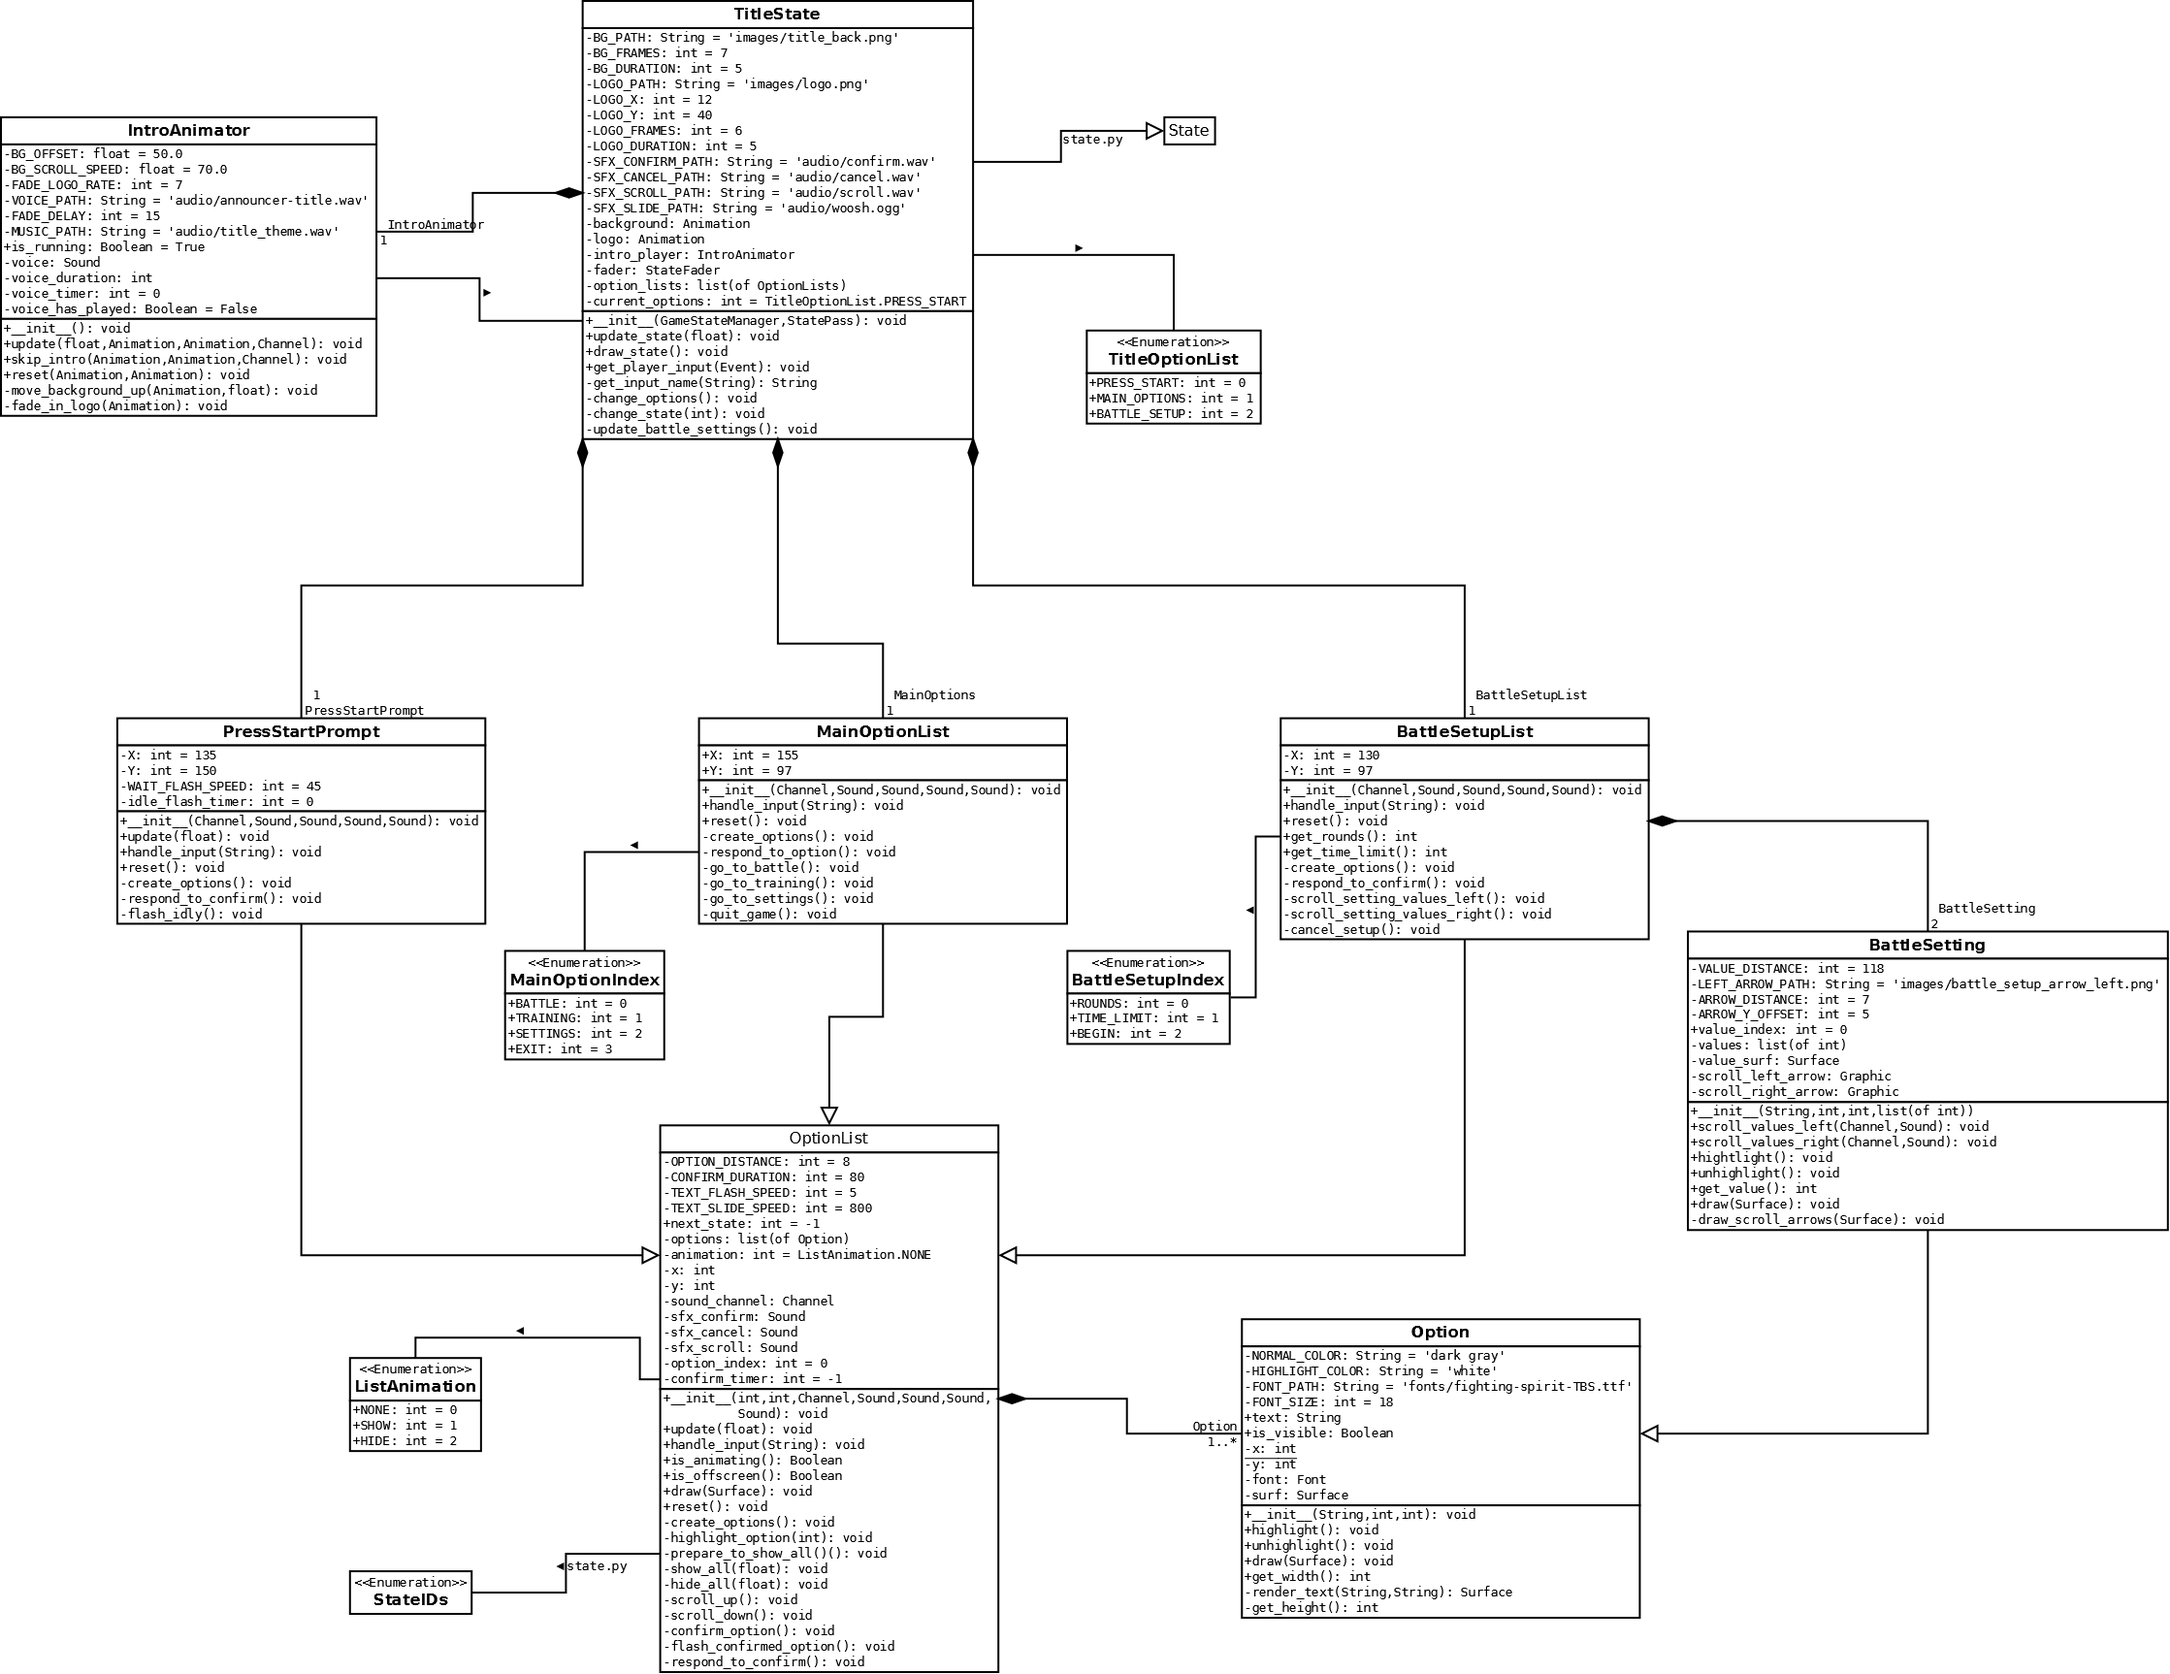
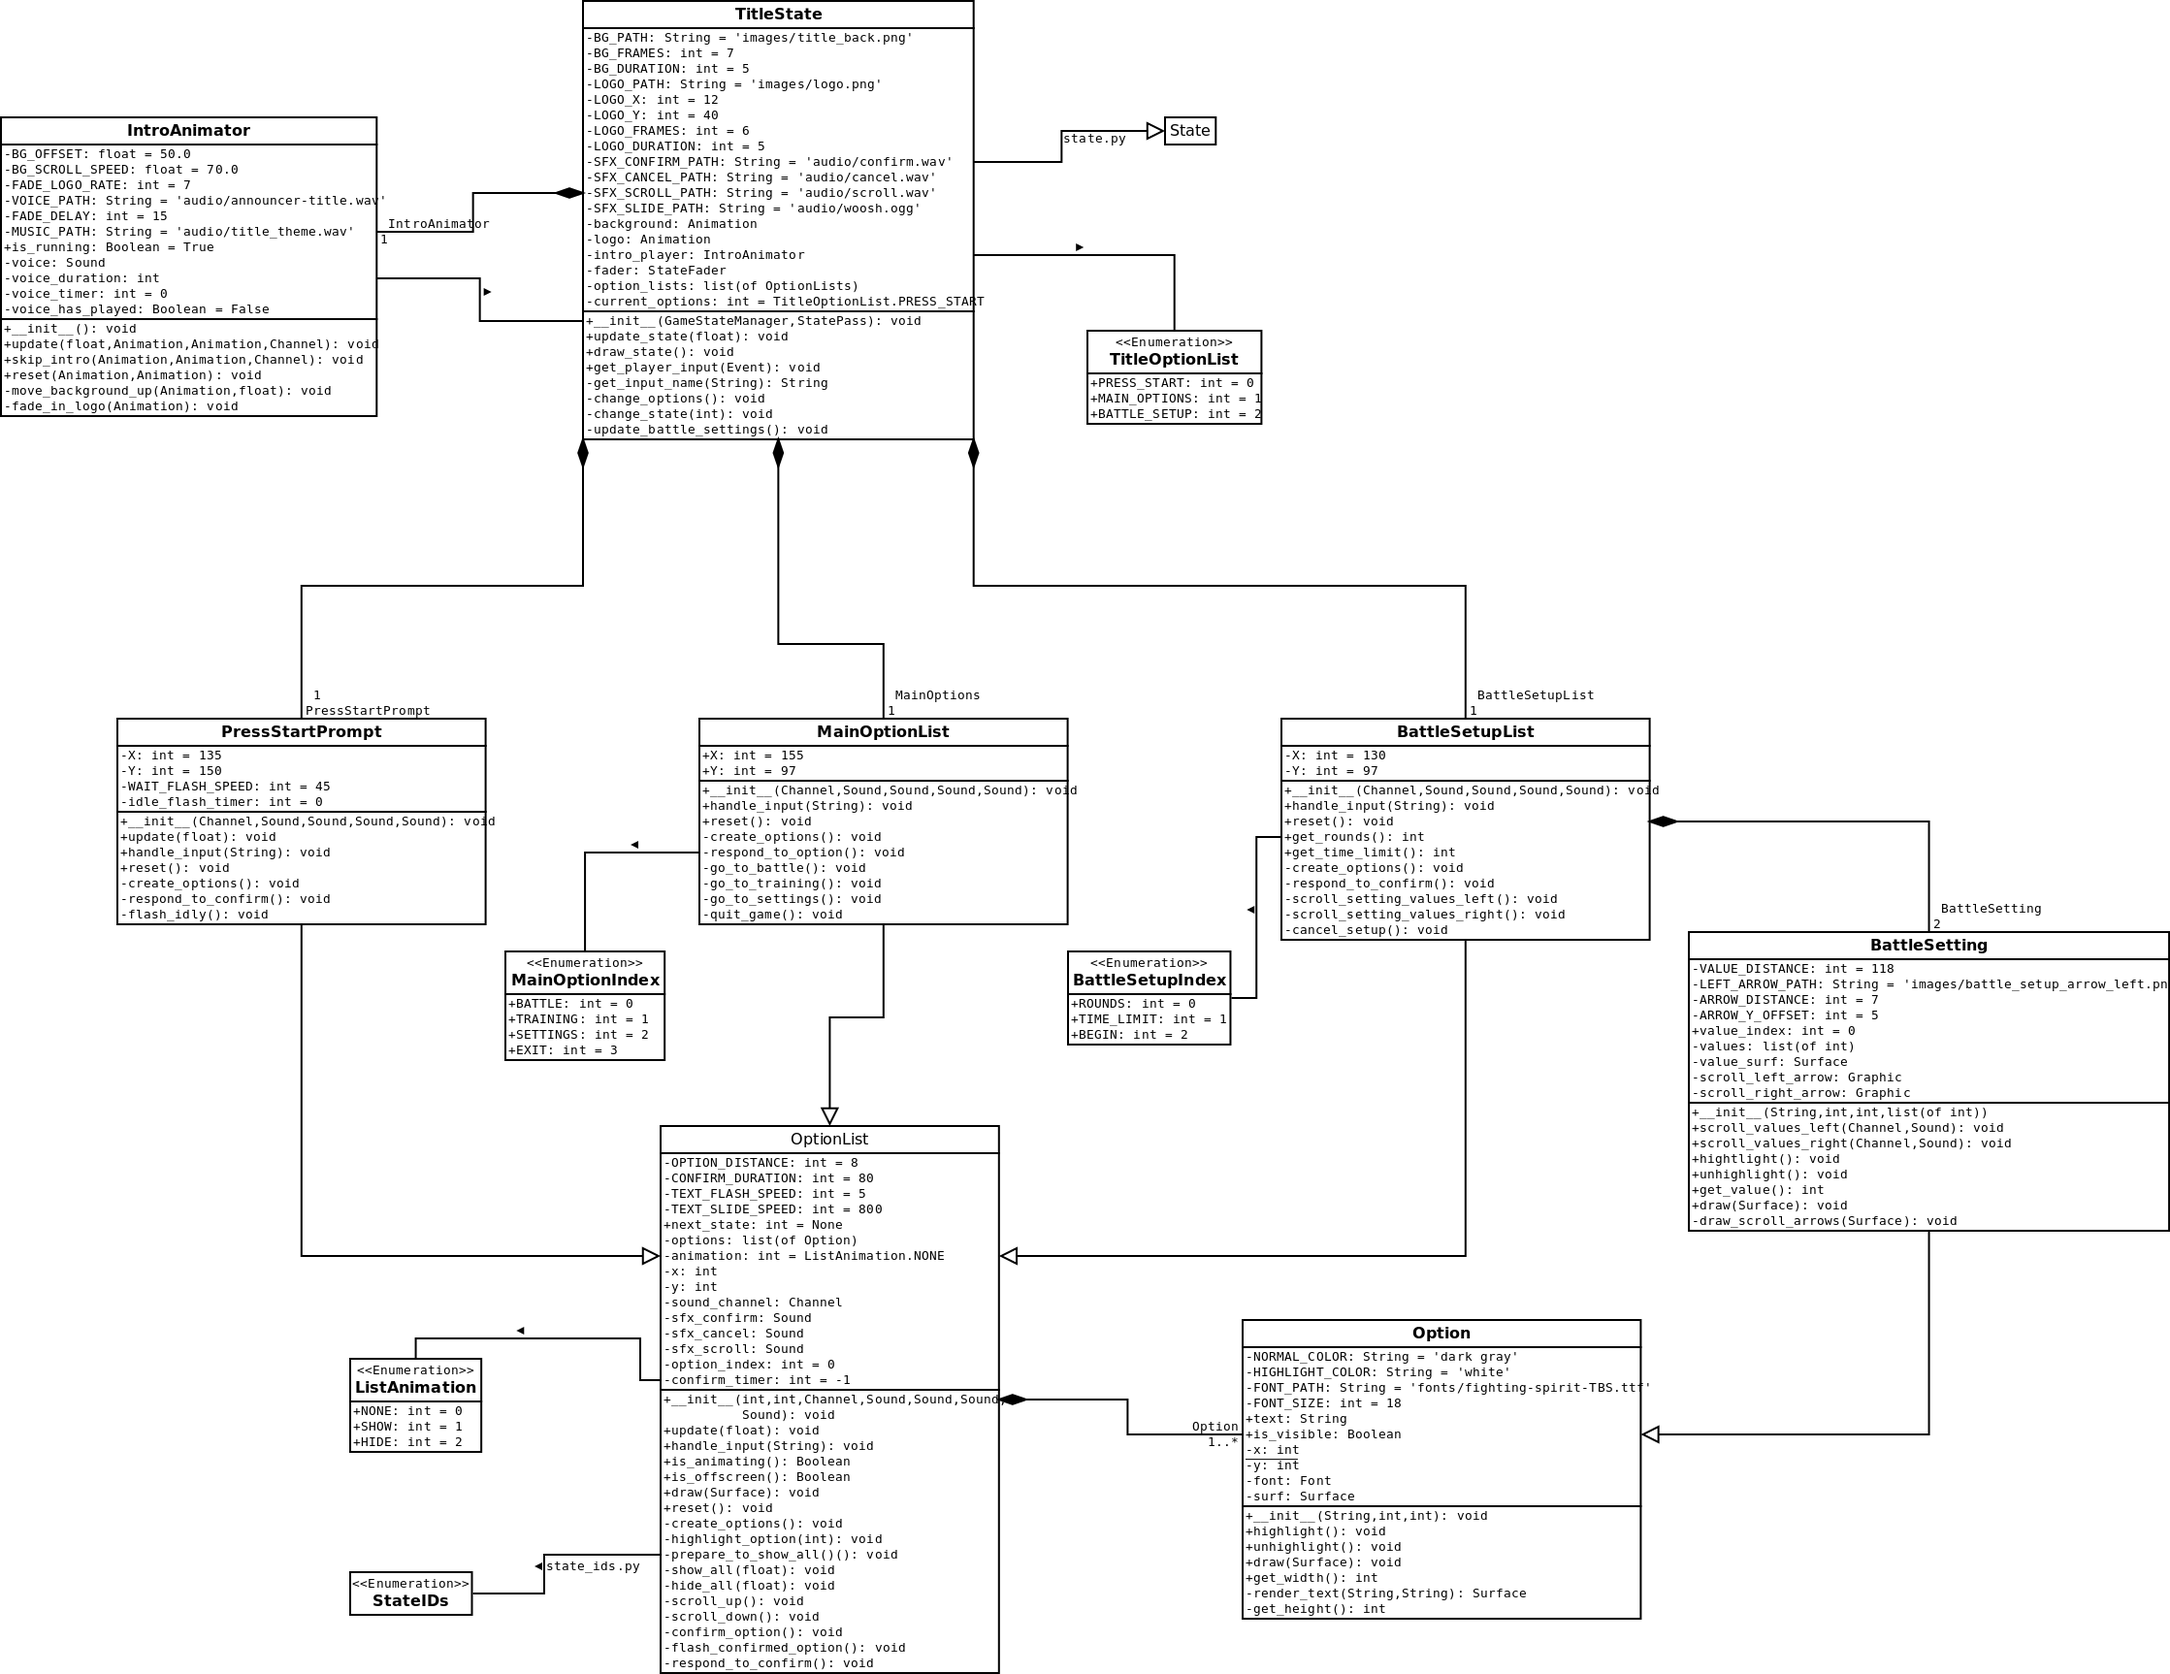
TitleState: Use None as empty value in next_state
Keeping in line with patterns from the other modules.

diff --git a/lib/game_states/title_state.py b/lib/game_states/title_state.py
@@ -132,9 +132,9 @@ class TitleState(State):
             updated_options = self.option_lists[self.current_options]
 
             updated_options.update(time)
-            if updated_options.next_state > -1:
+            if updated_options.next_state is not None:
                 self.determine_state_change(updated_options.next_state)
-                updated_options.next_state = -1
+                updated_options.next_state = None
             elif updated_options.is_offscreen():
                 self.change_options()
 
@@ -413,7 +413,7 @@ class OptionList(object):
             should be performed and if so, which. Refer to the
             ListAnimation enum for the possible values.
         next_state: The index of the next Game State will be run. Refer
-            to the StateIDs enum for possible choices. A value of -1
+            to the StateIDs enum for possible choices. A value of None
             means that processing should remain in the Title State.
     """
     OPTION_DISTANCE = 8
@@ -446,7 +446,7 @@ class OptionList(object):
         self.option_index = 0
         self.confirm_timer = -1
         self.animation = ListAnimation.NONE
-        self.next_state = -1
+        self.next_state = None
         self.options = []
         self.create_options()
         self.highlight_option(0)
